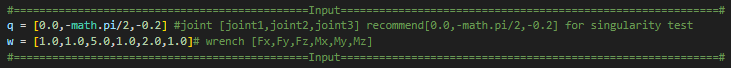
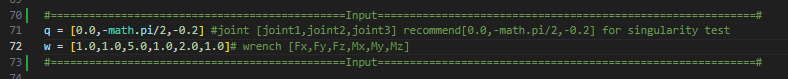
addPic

diff --git a/FRA333_HW3_6561_6562.py b/FRA333_HW3_6561_6562.py
@@ -41,7 +41,7 @@ def endEffectorJacobianHW3(q:list[float])->list[float]:
     J_01 = np.vstack((R_e0 @ base.cross(z_01,base.vector_diff(p_0e,p_01,'r')).reshape(3,1),z_e1))
     J_02 = np.vstack((R_e0 @ base.cross(z_02,base.vector_diff(p_0e,p_02,'r')).reshape(3,1),z_e2))
     J_03 = np.vstack((R_e0 @ base.cross(z_03,base.vector_diff(p_0e,p_03,'r')).reshape(3,1),z_e3))
-    #Create Jacobian Matrix of each joint reference to end-effector frame
+    #Create Jacobian Matrix of each joint reference to end-effector frame (Equation in Jacobian.jpg)
     J_e = np.hstack((J_01,J_02,J_03))
     #Stack Jacobian Matrix of each joint reference to end-effector frame to Matrix 6x3
     return J_e #Return Jacobian Matrix
@@ -67,8 +67,10 @@ def computeEffortHW3(q:list[float], w:list[float])->list[float]:
     return tau #Return Joint forces/torques due to w
 #==============================================================================================================#
 
+#==============================================Input===========================================================#
 q = [0.0,-math.pi/2,-0.2] #joint [joint1,joint2,joint3] recommend[0.0,-math.pi/2,-0.2] for singularity test
 w = [1.0,1.0,5.0,1.0,2.0,1.0]# wrench [Fx,Fy,Fz,Mx,My,Mz]
+#==============================================Input===========================================================#
 
 print(endEffectorJacobianHW3(q))
 print(checkSingularityHW3(q))

diff --git a/testScript.py b/testScript.py
@@ -8,7 +8,7 @@
 import HW3_utils
 import roboticstoolbox as rtb
 import numpy as np
-from spatialmath import SE3
+from spatialmath import SE3,base
 from math import pi,radians
 import FRA333_HW3_6561_6562 as hand
 d_1 = 0.0892
@@ -49,8 +49,10 @@ def proofTwo(q:list[float],robot:rtb.DHRobot)->bool:
         issingula = True
     else:
         issingula = False  
-    singularity_rtb = robot.manipulability(J=J)
-    if singularity_rtb == 0:
+    # singularity_rtb = robot.manipulability(J=J)
+    J_r = J[:3,:] #Reduce Jacobian Matrix to made it can find det and inverse
+    singularity_rtb = base.det(J_r)
+    if abs(singularity_rtb) < 0.001:
         issingula_rtb = True
     else:
         issingula_rtb = False
@@ -67,7 +69,6 @@ def proofTwo(q:list[float],robot:rtb.DHRobot)->bool:
 def proofThree(q:list[float], w:list[float],robot:rtb.DHRobot)->bool:
     tau = hand.computeEffortHW3(q,w)
     w = np.array(w)
-    print(w)
     tau_rtb = robot.pay(w,J=robot.jacobe(q),frame = 0)
     allow_error = 0.0001
     print("-----------Hand Effort-----------")
